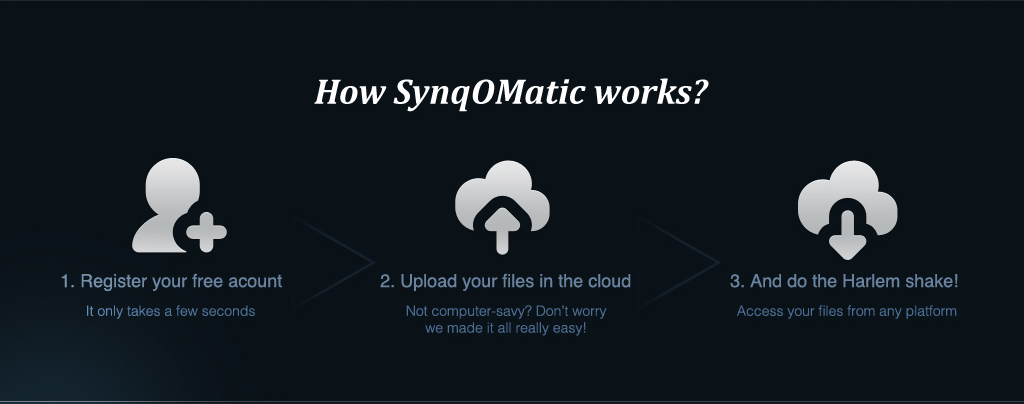
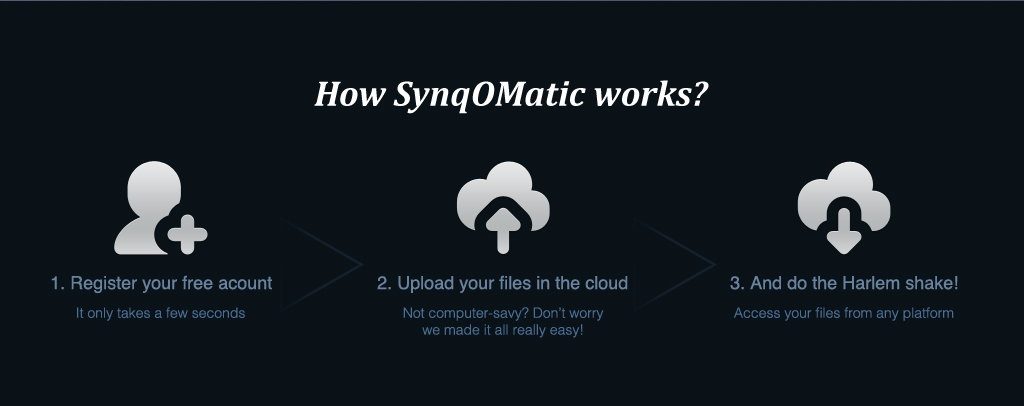
Update all images with proper ones (home, login, register, header, footer). #20

diff --git a/syncomatic/static/style.css b/syncomatic/static/style.css
@@ -4,12 +4,11 @@ body { margin: 0; background-color: #1a1a1a; }
 
 
 /* -- HEADER --. */
-.header { background-color: #000; height: 100px; width: 100%; top: 0; left: 0; position: relative; }
+.header { position: relative; background-image: url('header_container.jpg'); height: 95px; }
 .header .title { float: left; margin-left: 40px; margin-top: 40px; }
 .header .header_menu { margin-right: 50px; }
 .header li { float: right; margin-right: 40px; margin-top: 30px; }
 .header a { color: #f2f2f2; font-family: Arial; font-size: x-large; }
-.header hr { margin-bottom: 8px; border: none; height: 1px; background-color: #f2f2f2; }
 
 
 /* -- BODY --. */
@@ -17,7 +16,7 @@ body { margin: 0; background-color: #1a1a1a; }
 /* Index. */
 
 /* Not logged in yet, on index. */
-.not_logged_in_index_container { position: relative; background-image: url('index_container.jpg'); height: 350px; }
+.not_logged_in_index_container { position: relative; background-image: url('index_container.jpg'); height: 348px; }
 .not_logged_in_index_container a { color: #000; }
 .not_logged_in_index_container button.register { background-color: #f0c454; width: 102px; height: 38px; position: absolute; bottom: 41px; right: 429px; }
 .not_logged_in_index_container button.register span { font-size: 18px; font-weight: bold; position: absolute; bottom: 5px; right: 30px; }
@@ -57,20 +56,20 @@ body { margin: 0; background-color: #1a1a1a; }
 .logged_in_index_container table tbody td.regular_file { display: inline-block; padding-left:20px; line-height:16px; background: transparent url('regular_file_icon.png') center left no-repeat; margin-top: 9px; margin-left: 10px; }
 
 /* Register. */
-.register_container { position: relative; background-image: url('register_container.jpg'); height: 350px; }
+.register_container { position: relative; background-image: url('register_container.jpg'); height: 348px; }
 .register_container form { position: absolute; bottom: 28px; left: 148px; }
 .register_container form input:not([type=submit]) { margin-bottom: 7px; }
 .register_container form input[type=submit] { padding-right: 10px; margin-left: 2px; width: 100px; height: 30px; }
 
 /* Login. */
-.login_container { position: relative; background-image: url('login_container.jpg'); height: 350px; }
+.login_container { position: relative; background-image: url('login_container.jpg'); height: 348px; }
 .login_container form { position: absolute; bottom: 22px; left: 148px; }
 .login_container form input:not([type=submit]) { margin-bottom: 7px; }
 .login_container form input[type=submit] { padding-right: 10px; margin-left: 2px; width: 100px; height: 30px; }
 .login_container form .remember_me { color: #fff; }
 
 /* -- FOOTER --. */
-.how_it_works_container { position: relative; background-image: url('how_it_works.jpg'); height: 404px; }
+.how_it_works_container { position: relative; background-image: url('how_it_works.jpg'); height: 406px; }
 .footer { position: relative; background-image: url('footer_container.jpg'); height: 226px; }
 .footer a { position: absolute; color: #4d6f96; font-size: 24px; font-style: italic; font-family: Myriad Pro, Arial; bottom: 94px; right: 72px; }
 /* Add email icon to anchor. */

diff --git a/syncomatic/templates/header.html b/syncomatic/templates/header.html
@@ -1,5 +1,4 @@
 <div class="header group">
-    <img class="title group" src="{{url_for('static', filename="title.jpg")}}">
     <nav class="header_menu">
         <ul class="group">
             <li><a href="#">Contact</a></li>
@@ -7,5 +6,4 @@
             <li><a class="active" href="{{url_for('index')}}">Home</a></li>
         </ul>
     </nav>
-    <hr>
 </div>
